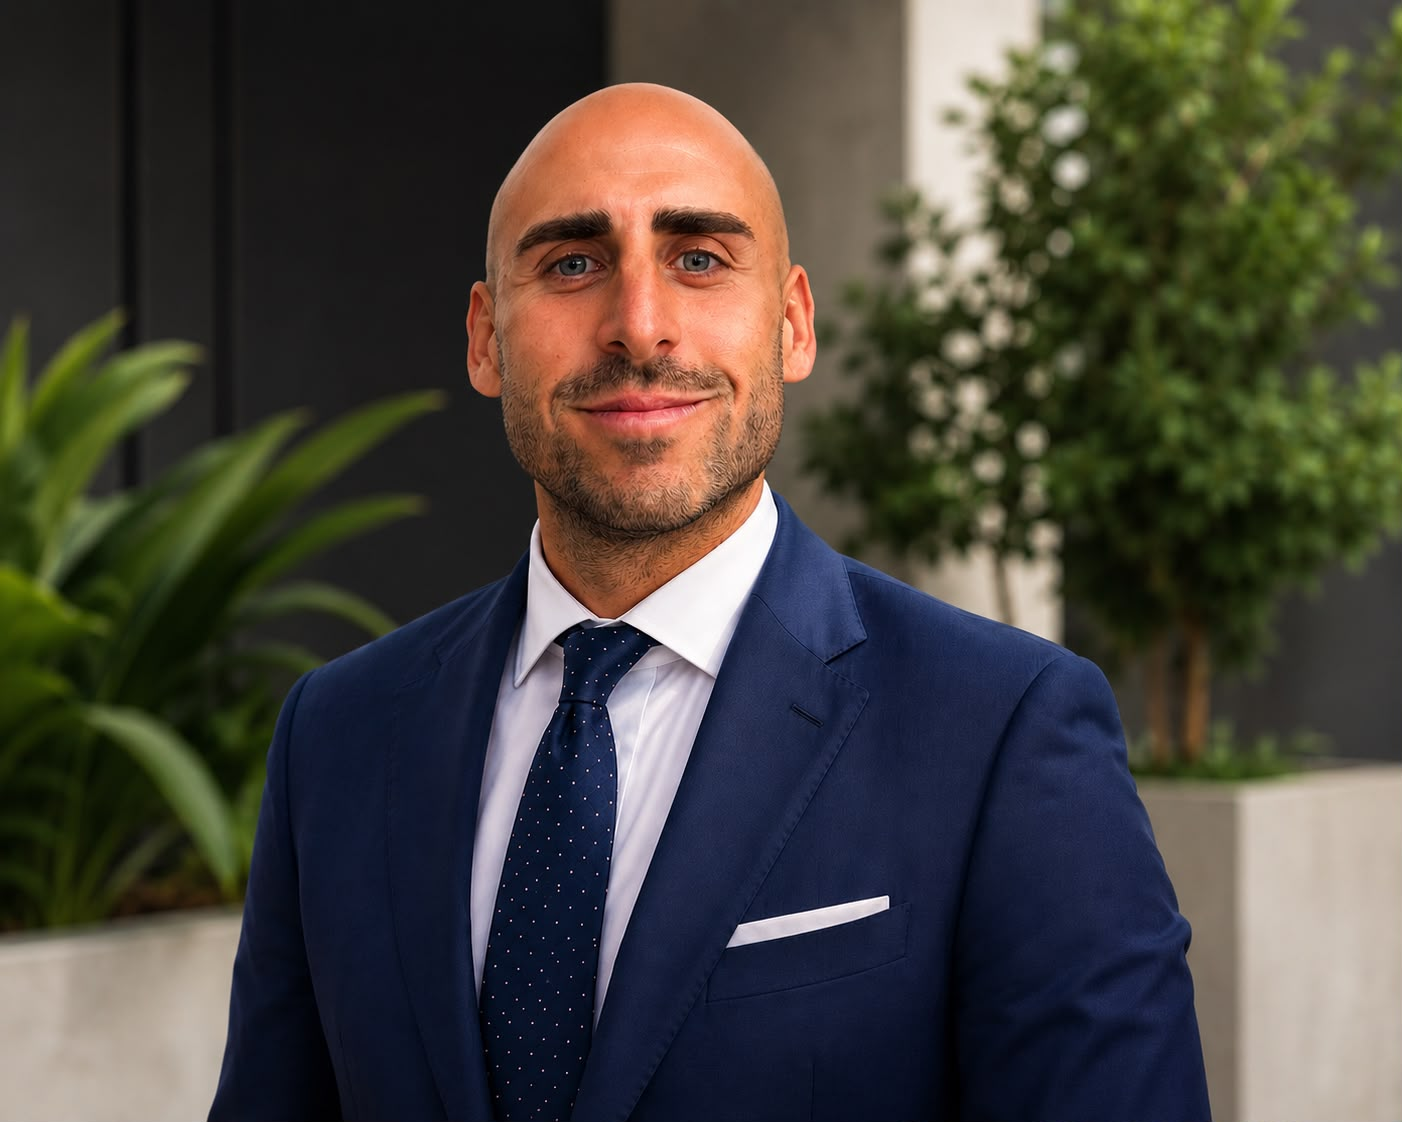
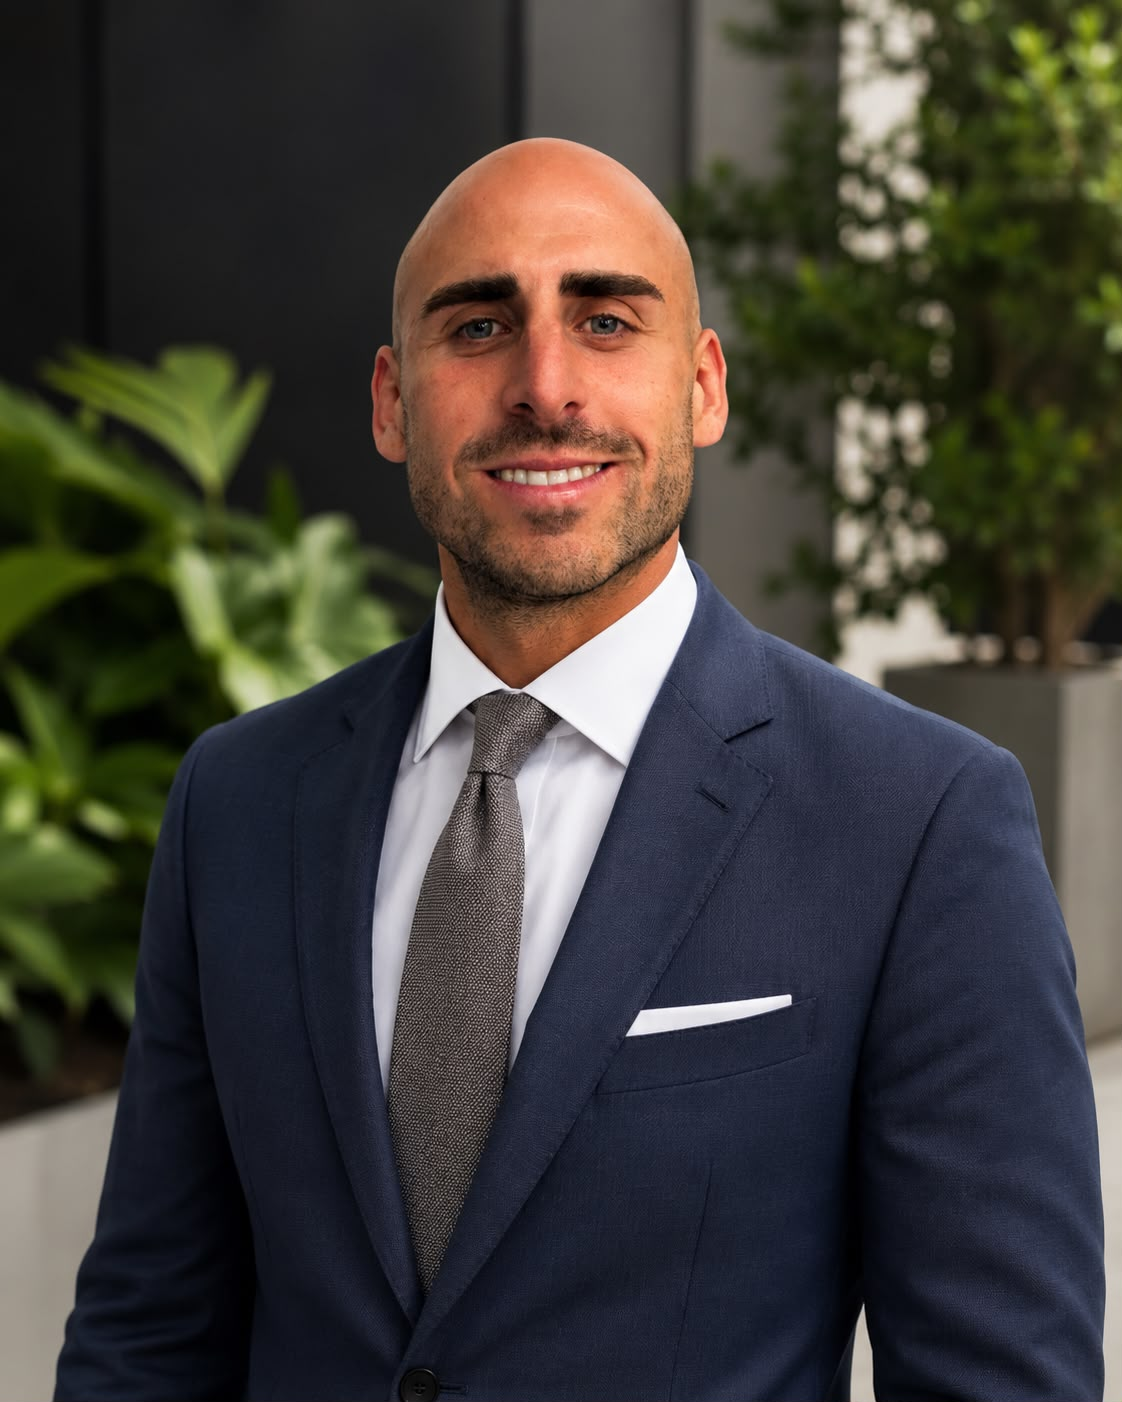
Richiesta ale cambio foto

diff --git a/index.html b/index.html
@@ -63,7 +63,7 @@
             <h1>
               Valorizziamo<br />
               farmacie.<br />
-              <span>Costruiamo<br />valore.</span>
+              <span>Costruiamo<br />opportunità.</span>
             </h1>
 
             <p class="hero-description">
@@ -101,7 +101,7 @@
                 <li>Valutazioni e analisi</li>
                 <li>Ricerca e selezione acquirenti</li>
                 <li>Gestione trattative</li>
-                <li>Due diligence e assistenza completa</li>
+                <li>Analisi preliminare e supporto fino alla conclusione dell’operazione</li>
               </ul>
 
               <a href="#contatti" class="read-more">Scopri di più</a>
@@ -204,7 +204,7 @@
 
               <div class="team-info">
                 <h3>Paolo</h3>
-                <p>Relazioni ed esperienza trentennale nel settore farmacia.</p>
+                <p>Oltre 30 anni di esperienza nel settore bancario Health & Pharma.</p>
               </div>
             </article>
 